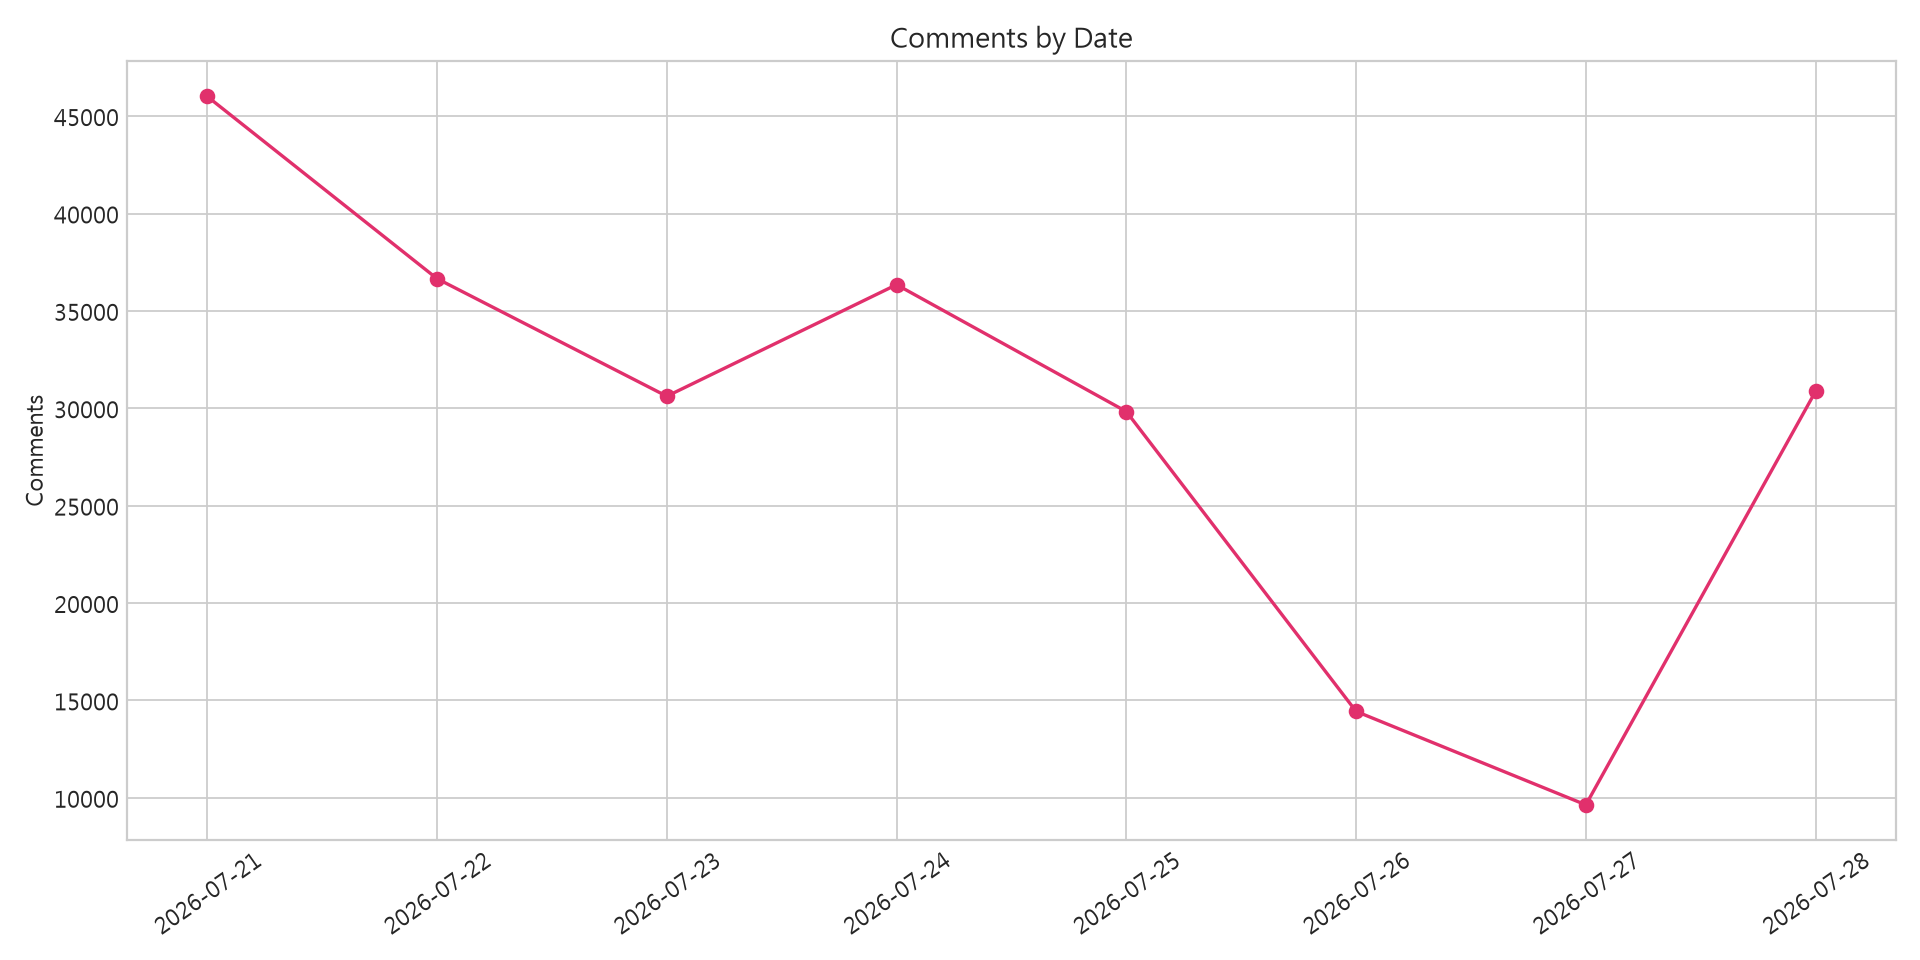
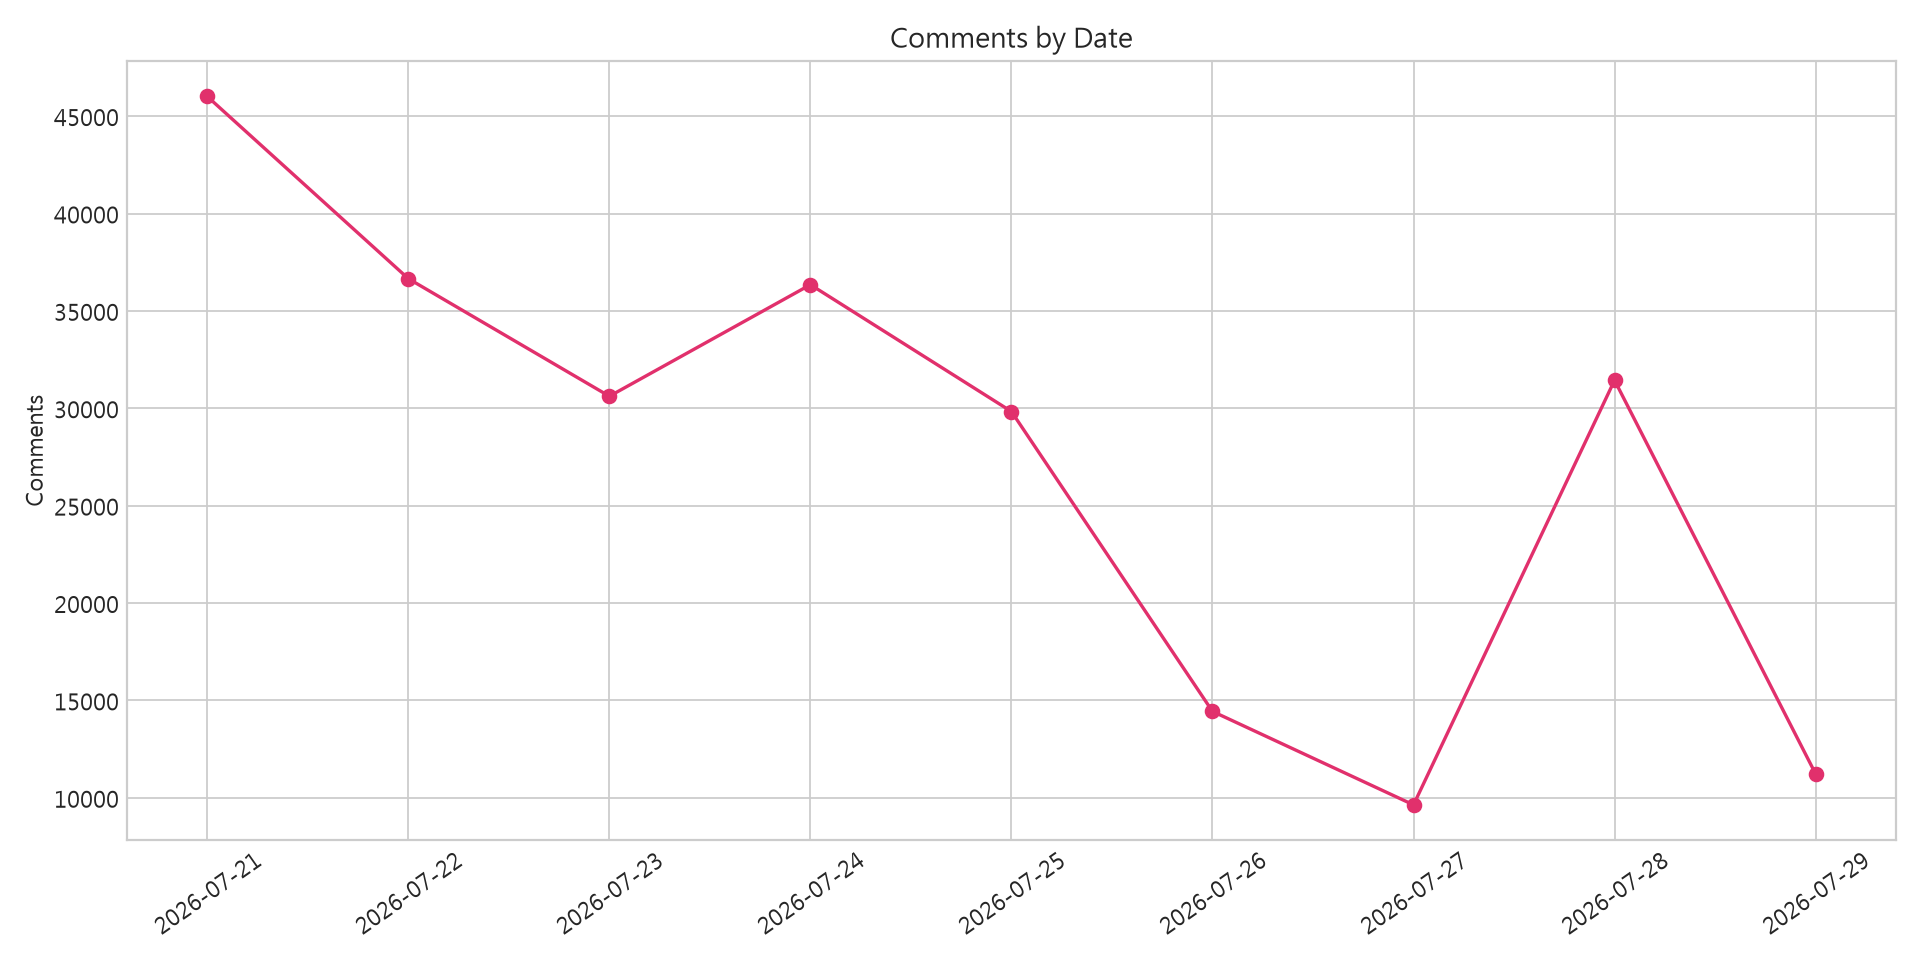
Refresh Pages report with comments through 2026-07-29 17:00.

diff --git a/docs/index.html b/docs/index.html
@@ -11,11 +11,11 @@
 <main class="container pb-5">
  <h2 class="h4 mb-3">基本統計</h2><div class="row g-3 mb-4">
  
- <div class="col-6 col-lg-3"><div class="card p-3"><small class="text-muted">總留言數</small><strong class="fs-3">234429</strong></div></div>
- <div class="col-6 col-lg-3"><div class="card p-3"><small class="text-muted">唯一留言者</small><strong class="fs-3">1340</strong></div></div>
- <div class="col-6 col-lg-3"><div class="card p-3"><small class="text-muted">平均留言長度</small><strong class="fs-3">25.45</strong></div></div>
- <div class="col-6 col-lg-3"><div class="card p-3"><small class="text-muted">應援留言數</small><strong class="fs-3">234625</strong></div></div>
- </div><p>留言最多的人：<strong>hsinhuachung</strong>｜應援隊伍數：<strong>95</strong></p>
+ <div class="col-6 col-lg-3"><div class="card p-3"><small class="text-muted">總留言數</small><strong class="fs-3">246231</strong></div></div>
+ <div class="col-6 col-lg-3"><div class="card p-3"><small class="text-muted">唯一留言者</small><strong class="fs-3">1351</strong></div></div>
+ <div class="col-6 col-lg-3"><div class="card p-3"><small class="text-muted">平均留言長度</small><strong class="fs-3">25.48</strong></div></div>
+ <div class="col-6 col-lg-3"><div class="card p-3"><small class="text-muted">應援留言數</small><strong class="fs-3">246494</strong></div></div>
+ </div><p>留言最多的人：<strong>hsinhuachung</strong>｜應援隊伍數：<strong>97</strong></p>
 
  <div class="row g-4 mb-4">
   <div class="col-12 col-lg-6"><div class="card p-3"><h2 class="h5">應援隊伍排行</h2><img class="chart" src="assets/team_votes.png" alt="應援隊伍排行"></div></div>
@@ -23,8 +23,8 @@
  </div>
 
  <div class="row g-4 mb-4">
-  <div class="col-12 col-lg-6"><div class="card p-3"><h2 class="h5">Top 20 應援隊伍</h2><table class="table"><thead><tr><th>隊伍</th><th>票數</th></tr></thead><tbody><tr><td>YVIE GIRLS</td><td>141245</td></tr><tr><td>北一街舞貳拾肆屆</td><td>43693</td></tr><tr><td>SYKIDZ JN</td><td>19312</td></tr><tr><td>美少女戰士</td><td>8352</td></tr><tr><td>MIXCIN ZAZA</td><td>4680</td></tr><tr><td>BUBBLE GUN</td><td>4227</td></tr><tr><td>THE MIXCIN</td><td>2371</td></tr><tr><td>HKG</td><td>1731</td></tr><tr><td>MIXCIN PASSION</td><td>1633</td></tr><tr><td>MOOSE</td><td>1486</td></tr><tr><td>SYKIDZ REI</td><td>1247</td></tr><tr><td>CRAZY WEDNESDAY</td><td>783</td></tr><tr><td>MIXCIN NOVA</td><td>456</td></tr><tr><td>RAIN CITY KIDZ</td><td>432</td></tr><tr><td>MIXCIN BOSSY</td><td>327</td></tr><tr><td>MINI DSDJ</td><td>276</td></tr><tr><td>北一鎖舞第十七屆</td><td>236</td></tr><tr><td>MIXCIN NOVA加油</td><td>227</td></tr><tr><td>北一 街舞貳拾肆屆</td><td>193</td></tr><tr><td>北ㄧ街舞貳拾肆屆</td><td>177</td></tr></tbody></table></div></div>
-  <div class="col-12 col-lg-6"><div class="card p-3"><h2 class="h5">Top 20 留言者</h2><table class="table"><tbody><tr><td>hsinhuachung</td><td>23212</td></tr><tr><td>chenchenlinger</td><td>21695</td></tr><tr><td>y.v_amy</td><td>21125</td></tr><tr><td>fu.rino</td><td>18080</td></tr><tr><td>cardanfor</td><td>9776</td></tr><tr><td>red_winnie</td><td>9353</td></tr><tr><td>06.angle_</td><td>8644</td></tr><tr><td>jone4289</td><td>6887</td></tr><tr><td>y.v_effy</td><td>6424</td></tr><tr><td>luvqi57</td><td>6332</td></tr><tr><td>yachun62</td><td>6201</td></tr><tr><td>visa_4289</td><td>5247</td></tr><tr><td>cwh224</td><td>4676</td></tr><tr><td>y.v_alicialee</td><td>4049</td></tr><tr><td>yyachuan</td><td>3092</td></tr><tr><td>w._.yiyj</td><td>2893</td></tr><tr><td>abrokenhouse701</td><td>2231</td></tr><tr><td>y.v_fifi</td><td>2166</td></tr><tr><td>y.v_mina</td><td>1836</td></tr><tr><td>y.v_nina</td><td>1648</td></tr></tbody></table></div></div>
+  <div class="col-12 col-lg-6"><div class="card p-3"><h2 class="h5">Top 20 應援隊伍</h2><table class="table"><thead><tr><th>隊伍</th><th>票數</th></tr></thead><tbody><tr><td>YVIE GIRLS</td><td>148816</td></tr><tr><td>北一街舞貳拾肆屆</td><td>46238</td></tr><tr><td>SYKIDZ JN</td><td>20098</td></tr><tr><td>美少女戰士</td><td>8352</td></tr><tr><td>BUBBLE GUN</td><td>5110</td></tr><tr><td>MIXCIN ZAZA</td><td>4680</td></tr><tr><td>THE MIXCIN</td><td>2392</td></tr><tr><td>HKG</td><td>1731</td></tr><tr><td>MIXCIN PASSION</td><td>1633</td></tr><tr><td>MOOSE</td><td>1486</td></tr><tr><td>SYKIDZ REI</td><td>1247</td></tr><tr><td>CRAZY WEDNESDAY</td><td>783</td></tr><tr><td>MIXCIN NOVA</td><td>456</td></tr><tr><td>RAIN CITY KIDZ</td><td>432</td></tr><tr><td>MIXCIN BOSSY</td><td>327</td></tr><tr><td>MINI DSDJ</td><td>276</td></tr><tr><td>北一鎖舞第十七屆</td><td>236</td></tr><tr><td>MIXCIN NOVA加油</td><td>227</td></tr><tr><td>北一 街舞貳拾肆屆</td><td>193</td></tr><tr><td>北ㄧ街舞貳拾肆屆</td><td>177</td></tr></tbody></table></div></div>
+  <div class="col-12 col-lg-6"><div class="card p-3"><h2 class="h5">Top 20 留言者</h2><table class="table"><tbody><tr><td>hsinhuachung</td><td>23577</td></tr><tr><td>chenchenlinger</td><td>22495</td></tr><tr><td>fu.rino</td><td>21696</td></tr><tr><td>y.v_amy</td><td>21125</td></tr><tr><td>red_winnie</td><td>10061</td></tr><tr><td>cardanfor</td><td>9879</td></tr><tr><td>06.angle_</td><td>9833</td></tr><tr><td>jone4289</td><td>7134</td></tr><tr><td>y.v_effy</td><td>6579</td></tr><tr><td>luvqi57</td><td>6332</td></tr><tr><td>yachun62</td><td>6201</td></tr><tr><td>visa_4289</td><td>5788</td></tr><tr><td>cwh224</td><td>4676</td></tr><tr><td>y.v_alicialee</td><td>4049</td></tr><tr><td>yyachuan</td><td>3272</td></tr><tr><td>w._.yiyj</td><td>2893</td></tr><tr><td>abrokenhouse701</td><td>2231</td></tr><tr><td>y.v_fifi</td><td>2166</td></tr><tr><td>y.v_mina</td><td>1836</td></tr><tr><td>c.christallo</td><td>1711</td></tr></tbody></table></div></div>
  </div>
 
  <div class="row g-4 mb-4">
@@ -42,6 +42,6 @@
  </div>
 
  <div class="row g-4">
-  <div class="col-12"><div class="card p-3"><h2 class="h5">重複留言（前 20 筆）</h2><table class="table"><thead><tr><th>類型</th><th>留言</th><th>說明</th><th>相似度</th></tr></thead><tbody><tr><td>exact</td><td>2026新北國際街舞大賽 我挺YVIE GIRLS!</td><td>chenchenlinger×21673, y.v_amy×21083, hsinhuachung×13072, y.v_alicialee×3647, fu.rino×2062</td><td>1.0</td></tr><tr><td>exact</td><td>2026新北國際街舞大賽 我挺YVIE GIRLS！</td><td>hsinhuachung×7201, jone4289×6858, y.v_effy×6364, yachun62×6163, yyachuan×1989</td><td>1.0</td></tr><tr><td>exact</td><td>2026新北國際街舞大賽，我挺SYKIDZ REI ❤</td><td>feishan33__×4</td><td>1.0</td></tr><tr><td>exact</td><td>2026新北國際街舞大賽 我挺北一街舞貳拾肆屆！</td><td>06.angle_×8587, luvqi57×6302, abrokenhouse701×2205, theyreeeeeasshole×1558, tongjing.chen×1504</td><td>1.0</td></tr><tr><td>exact</td><td>2026新北國際街舞大賽 我挺北一街舞貳拾肆屆！2026新北國際街舞大賽 我挺北一街舞貳拾肆屆！</td><td>73zs._×37, meow_meow_meow_iii×23, 06.angle_×18, hardto.choose×15, luvqi57×15</td><td>1.0</td></tr><tr><td>exact</td><td>2026新北國際街舞大賽 我挺北一街舞貳拾肆屆���</td><td>06.angle_×3</td><td>1.0</td></tr><tr><td>exact</td><td>2026新北國際街舞大賽 我挺SYKIDZ JN</td><td>red_winnie×7257, zaq._.1212×290, lr._.02_23×195, sa._.0212_×151, _12nnnnn_×124</td><td>1.0</td></tr><tr><td>exact</td><td>2026新北國際街舞大賽 我挺YVIE GIRLS</td><td>cardanfor×9754, y.v_fifi×1944, hsinhuachung×1657, y.v_alicialee×56, gwc._.0904×39</td><td>1.0</td></tr><tr><td>exact</td><td>2026新北國際街舞大賽 我挺SYKIDZ JN!</td><td>_1cnn.cky×573, luo_zin_ing×325, 77zzzzzz__×193, yyc_.51×160, mimmy.syk×114</td><td>1.0</td></tr><tr><td>exact</td><td>2026新北國際街舞大賽 我挺SYKIDZ REI!</td><td>o.627._.yo×3</td><td>1.0</td></tr><tr><td>exact</td><td>2026新北國際街舞大賽 我挺SYKIDZ REI</td><td>_im.ys2×267, shiao_423×184, _7kzzc×123, celia__xin×77, oogeshon×75</td><td>1.0</td></tr><tr><td>exact</td><td>2026新北國際街舞大賽 我挺YVIE GIRLS! 2026新北國際街舞大賽 我挺YVIE GIRLS!</td><td>hsinhuachung×40</td><td>1.0</td></tr><tr><td>exact</td><td>2026新北國際街舞大賽我挺MIXCIN ZAZA🐆🔱</td><td>candicekang83×248, 09._hanhan×92, 09._.sihan×88, _xin.0604×46, 0824eva_15y×31</td><td>1.0</td></tr><tr><td>exact</td><td>2026新北國際街舞大賽我挺MIXCIN ZAZA🐆</td><td>glitch_06_13×913, hsu_.1129×26, smal.l_jus×21, yshinun×16, cutie.yu_2222×5</td><td>1.0</td></tr><tr><td>exact</td><td>2026 新北國際街舞大賽 我挺 MIXCIN ZAZA❤🔥</td><td>clds._.4683×137</td><td>1.0</td></tr><tr><td>exact</td><td>2026新北國際街舞大賽 我挺 必比登六星⭐</td><td>lynnkang46×20</td><td>1.0</td></tr><tr><td>exact</td><td>2026 新北國際街舞大賽 我挺 MIXCIN ZAZA</td><td>clds._.4683×7</td><td>1.0</td></tr><tr><td>exact</td><td>2026新北國際街舞大賽 我挺THE MIXCIN!!</td><td>tanya_and_cindy_mom×329, chloe0311_×35</td><td>1.0</td></tr><tr><td>exact</td><td>2026 新北國際街舞大賽 我挺 必比登六星🌟</td><td>papa.0401×23, clds._.4683×10, lynnkang46×2</td><td>1.0</td></tr><tr><td>exact</td><td>2026 新北國際街舞大賽 我挺 MIXCIN ZAZA😍🐆</td><td>papa.0401×59</td><td>1.0</td></tr></tbody></table></div></div>
+  <div class="col-12"><div class="card p-3"><h2 class="h5">重複留言（前 20 筆）</h2><table class="table"><thead><tr><th>類型</th><th>留言</th><th>說明</th><th>相似度</th></tr></thead><tbody><tr><td>exact</td><td>2026新北國際街舞大賽 我挺YVIE GIRLS!</td><td>chenchenlinger×22473, y.v_amy×21083, hsinhuachung×13433, y.v_alicialee×3647, fu.rino×2062</td><td>1.0</td></tr><tr><td>exact</td><td>2026新北國際街舞大賽 我挺YVIE GIRLS！</td><td>hsinhuachung×7201, jone4289×7105, y.v_effy×6519, yachun62×6163, yyachuan×2169</td><td>1.0</td></tr><tr><td>exact</td><td>2026新北國際街舞大賽，我挺SYKIDZ REI ❤</td><td>feishan33__×4</td><td>1.0</td></tr><tr><td>exact</td><td>2026新北國際街舞大賽 我挺北一街舞貳拾肆屆！</td><td>06.angle_×9760, luvqi57×6302, abrokenhouse701×2205, theyreeeeeasshole×1558, tongjing.chen×1504</td><td>1.0</td></tr><tr><td>exact</td><td>2026新北國際街舞大賽 我挺北一街舞貳拾肆屆！2026新北國際街舞大賽 我挺北一街舞貳拾肆屆！</td><td>73zs._×37, 06.angle_×32, meow_meow_meow_iii×23, mayaheymayahomayahannie×22, hardto.choose×15</td><td>1.0</td></tr><tr><td>exact</td><td>2026新北國際街舞大賽 我挺北一街舞貳拾肆屆���</td><td>06.angle_×3</td><td>1.0</td></tr><tr><td>exact</td><td>2026新北國際街舞大賽 我挺SYKIDZ JN</td><td>red_winnie×7958, zaq._.1212×290, lr._.02_23×195, sa._.0212_×151, _12nnnnn_×124</td><td>1.0</td></tr><tr><td>exact</td><td>2026新北國際街舞大賽 我挺YVIE GIRLS</td><td>cardanfor×9856, y.v_fifi×1944, hsinhuachung×1657, yuan_kai_tsai×78, y.v_alicialee×56</td><td>1.0</td></tr><tr><td>exact</td><td>2026新北國際街舞大賽 我挺SYKIDZ JN!</td><td>_1cnn.cky×573, luo_zin_ing×325, 77zzzzzz__×193, yyc_.51×160, mimmy.syk×114</td><td>1.0</td></tr><tr><td>exact</td><td>2026新北國際街舞大賽 我挺SYKIDZ REI!</td><td>o.627._.yo×3</td><td>1.0</td></tr><tr><td>exact</td><td>2026新北國際街舞大賽 我挺SYKIDZ REI</td><td>_im.ys2×267, shiao_423×184, _7kzzc×123, celia__xin×77, oogeshon×75</td><td>1.0</td></tr><tr><td>exact</td><td>2026新北國際街舞大賽 我挺YVIE GIRLS! 2026新北國際街舞大賽 我挺YVIE GIRLS!</td><td>hsinhuachung×40</td><td>1.0</td></tr><tr><td>exact</td><td>2026新北國際街舞大賽我挺MIXCIN ZAZA🐆🔱</td><td>candicekang83×248, 09._hanhan×92, 09._.sihan×88, _xin.0604×46, 0824eva_15y×31</td><td>1.0</td></tr><tr><td>exact</td><td>2026新北國際街舞大賽我挺MIXCIN ZAZA🐆</td><td>glitch_06_13×913, hsu_.1129×26, smal.l_jus×21, yshinun×16, cutie.yu_2222×5</td><td>1.0</td></tr><tr><td>exact</td><td>2026 新北國際街舞大賽 我挺 MIXCIN ZAZA❤🔥</td><td>clds._.4683×137</td><td>1.0</td></tr><tr><td>exact</td><td>2026新北國際街舞大賽 我挺 必比登六星⭐</td><td>lynnkang46×20</td><td>1.0</td></tr><tr><td>exact</td><td>2026 新北國際街舞大賽 我挺 MIXCIN ZAZA</td><td>clds._.4683×7</td><td>1.0</td></tr><tr><td>exact</td><td>2026新北國際街舞大賽 我挺THE MIXCIN!!</td><td>tanya_and_cindy_mom×329, chloe0311_×35</td><td>1.0</td></tr><tr><td>exact</td><td>2026 新北國際街舞大賽 我挺 必比登六星🌟</td><td>papa.0401×23, clds._.4683×10, lynnkang46×2</td><td>1.0</td></tr><tr><td>exact</td><td>2026 新北國際街舞大賽 我挺 MIXCIN ZAZA😍🐆</td><td>papa.0401×59</td><td>1.0</td></tr></tbody></table></div></div>
  </div>
 </main></body></html>
